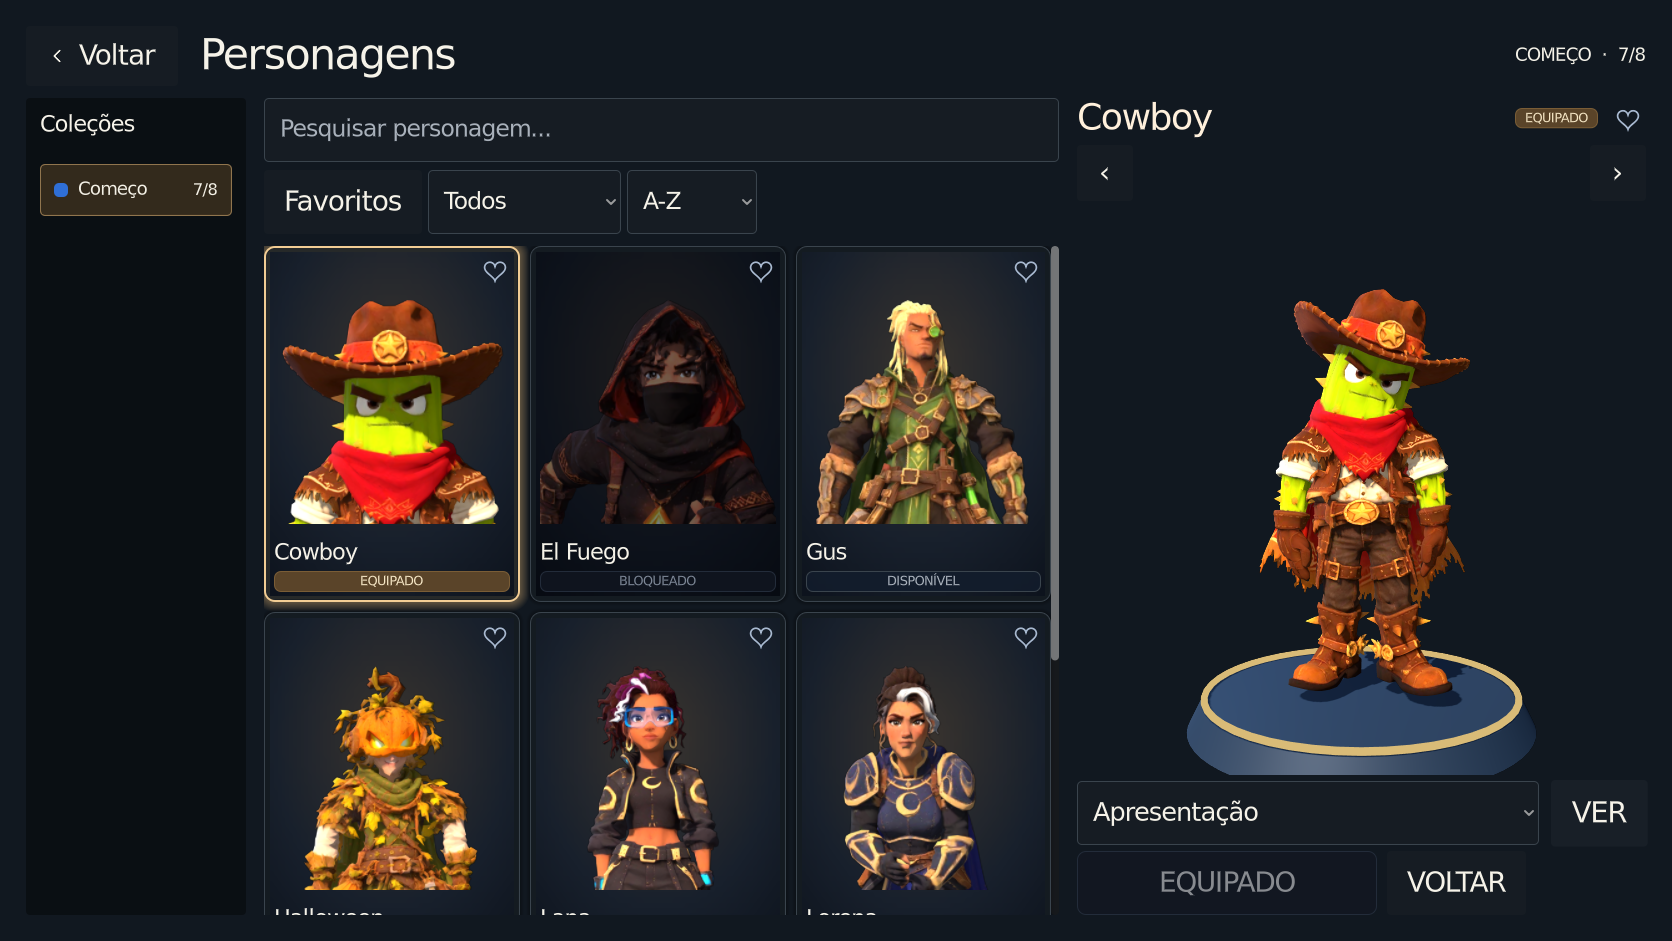
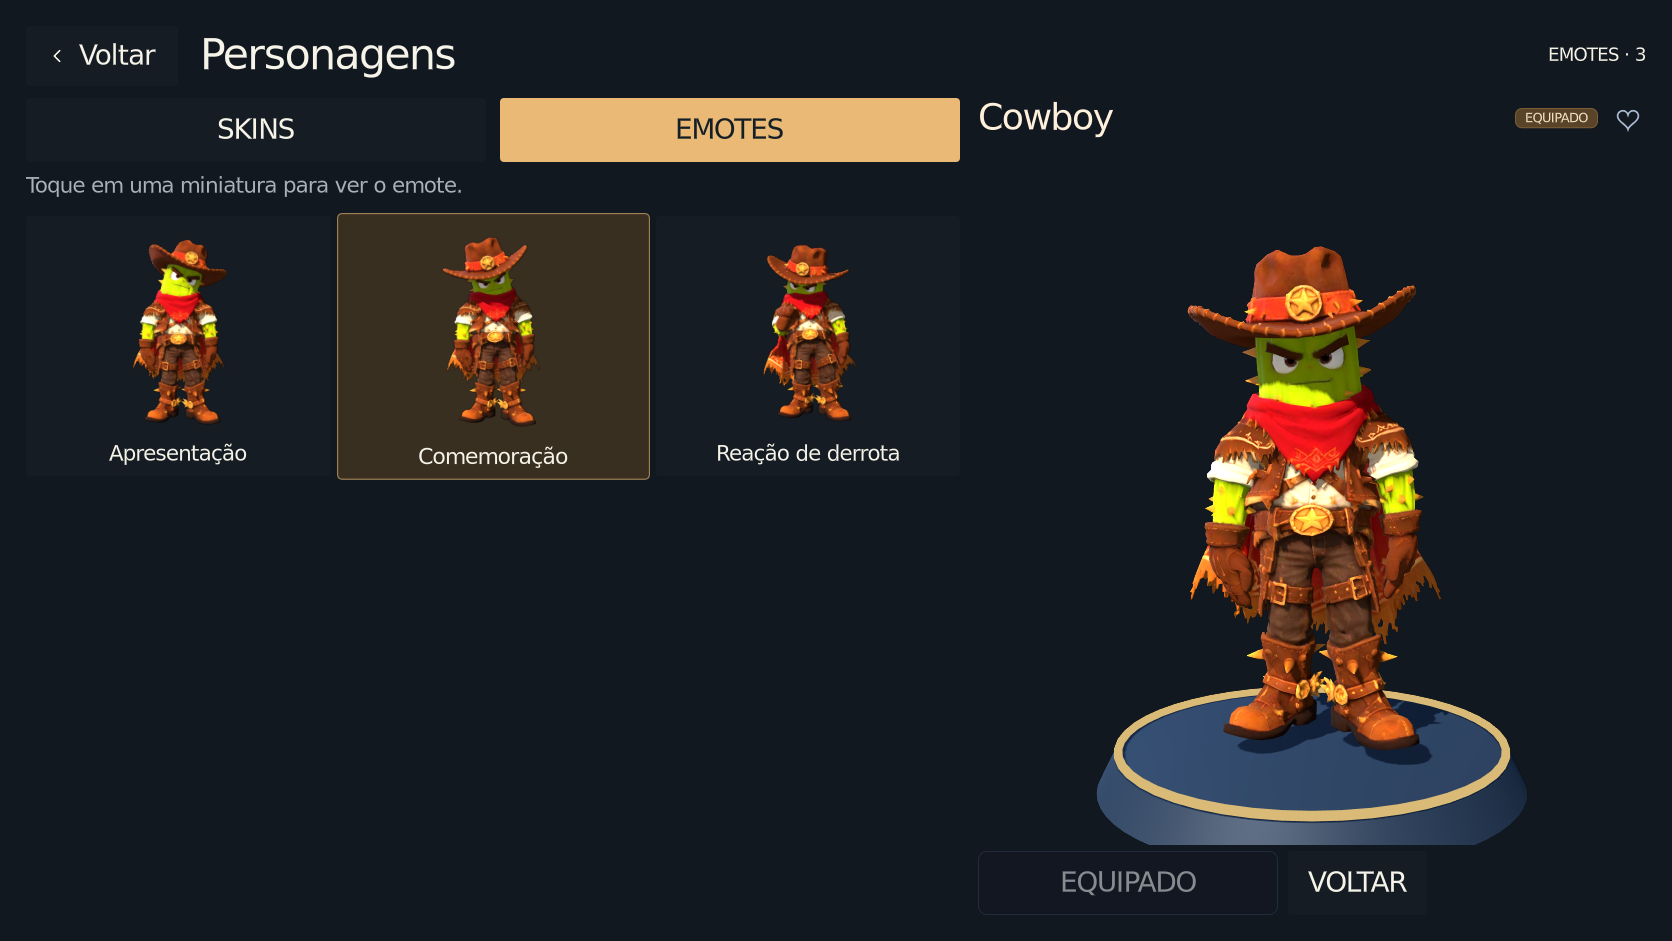
Transforma emotes em galeria visual com prévias reais do personagem

diff --git a/docs/characters/SKIN_VARIATIONS_EMOTES.md b/docs/characters/SKIN_VARIATIONS_EMOTES.md
@@ -1,32 +1,33 @@
-# Skins e emotes — desenvolvimento
+# Prévia visual de skins e emotes
 
 Branch: `work/skin-variations-emotes`.
 
-A primeira etapa acrescenta um seletor de prévia em Personagens, reutilizando os
-FBX existentes: Apresentação (`2.fbx`), Comemoração (`4.fbx`) e Reação de derrota
-(`3.fbx`). São três animações por personagem inicial. El Fuego não recebe emotes
-inventados a partir dos ataques e ações de plataforma.
+Personagens possui abas Skins e Emotes. A aba Emotes mostra três cartões com
+poses capturadas do modelo real. Tocar/clicar no cartão reproduz o movimento
+no personagem maior, à direita. Mouse, toque e foco por teclado usam botões
+nativos e o estilo existente de PlayerUI.
 
-Cada prévia toca uma vez e restaura a pose ou o loop anterior. Uma reação
-automática interrompe a prévia e cancela o retorno pendente. Repetir/trocar o
-emote e liberar o modelo também limpa esse estado. Nenhum modelo, textura ou
-animação original foi substituído; não há novos assets, cobrança ou alterações
-de autenticação/backend nesta etapa.
+Os clipes são os FBX originais: Apresentação (`2.fbx`), Comemoração (`4.fbx`) e
+Reação de derrota (`3.fbx`), nos sete personagens iniciais. El Fuego mantém o
+estado sem emotes disponíveis. Cada prévia toca uma vez e restaura a pose ou
+animação anterior. As reações automáticas continuam tendo prioridade.
 
-O catálogo atual não contém estilos de cor/roupa alternativos. Foram perguntados
-ao dono o tipo de variação (novas cores ou modelos/texturas já prontos) e o alcance
-dos emotes (lobby/sala ou também partida). Essas escolhas seguem pendentes.
-Ainda não há estilos alternativos equipáveis, seleção de emote salva na conta
-ou transmissão de emotes para os demais jogadores. A interface implementada
-nesta etapa é uma prévia na coleção, não a conclusão de todo esse fluxo.
+Um palco temporário captura três miniaturas da skin selecionada, enquadrando
+os ossos da pose. Depois é liberado. Os cartões usam texturas estáticas em cache;
+o personagem maior é o único que continua animado. Não há imagem gerada por IA:
+as miniaturas e capturas foram renderizadas pelo Godot com os assets existentes.
 
-Validação: Godot oficial 4.7.2, teste `tests/skin_emotes/preview.gd` com 26
-verificações e regressão `tests/duel_avatars/animations.gd` com 69, sem falhas.
-`tools/player_ui/check_design.py`: OK. O ambiente não possui Xvfb; a conferência
-visual usa uma exportação real do Godot Web com fixtures isoladas e rede externa
-bloqueada. Não se trata de teste em iPhone físico.
+O escopo atual é uma prévia na coleção. Estilos alternativos de roupa/cor,
+seleção salva na conta e emotes compartilhados no lobby/sala/partida continuam
+como próximas etapas, dependentes da definição dos visuais e do uso desejado.
 
-Web: aprovado em 1672×941, 844×390/DPR3 e 640×360/DPR3, com clique/toque,
-reprodução e retorno à pose sem erros. O primeiro teste em 640×360 identificou
-um excesso de largura; seletor com texto recortável e botão curto corrigiram
-o encaixe sem reduzir as fontes. Capturas em `evidence/skin-emotes`.
+Validação no Godot oficial 4.7.2: dez verificações da galeria visual, 26 do
+controle dos emotes e 69 de regressão das reações automáticas, sem falhas.
+`tools/player_ui/check_design.py`: OK. Godot Web/Chromium aprovado em desktop
+1672×941 e iPhone UA/DPR3 em 844×390 e 640×360: três miniaturas carregadas com
+altura visível, cartões dentro da tela, clique/toque, reprodução e retorno à
+pose, sem erros de script. O ajuste de altura preserva o tamanho dos cartões
+sem aplicar a regra dos retratos de skins a eles.
+
+Capturas em `evidence/skin-emotes`. São fixtures isoladas, sem acesso ao backend.
+Não houve teste em iPhone físico; o ambiente não possui Xvfb.

diff --git a/evidence/skin-emotes/README.md b/evidence/skin-emotes/README.md
@@ -1,16 +1,16 @@
-# Prévia dos emotes originais
+# Prévia visual dos emotes
 
-Godot Web 4.7.2 real, assets FBX originais, fixture isolada sem conexão ao backend.
-A fixture libera somente os sete personagens iniciais para testar os controles.
+Capturas reais do Godot Web 4.7.2, com FBX originais e fixture isolada.
+O jogador toca no cartão para reproduzir a animação no personagem à direita.
+As três miniaturas mostram poses capturadas do mesmo modelo.
 
-- `640x360_emotes.png`: Chromium, user agent de iPhone e DPR 3.
-- `844x390_emotes.png`: Chromium, user agent de iPhone e DPR 3.
+- `640x360_emotes.png` e `844x390_emotes.png`: Chromium, iPhone UA, DPR 3.
 - `1672x941_emotes.png`: Chromium desktop.
-- `results.json`: toque/clique inicia a animação, controles cabem no viewport e
-  o término restaura a pose; nenhum erro de script.
-- `native-test.log`: 26 verificações no motor, incluindo restauração dos ossos.
+- `results.json`: miniaturas visíveis, toque/clique, animação e retorno à pose.
+- `gallery-test.log`: dez verificações da galeria visual.
+- `native-test.log`: 26 verificações do controle das animações.
 - `avatar-regression.log`: 69 verificações das reações automáticas existentes.
 
-Não houve validação em aparelho físico. Esta etapa é a prévia na tela
-Personagens. Estilos alternativos e uso compartilhado de emotes continuam
-pendentes de definição em `docs/characters/SKIN_VARIATIONS_EMOTES.md`.
+Os retratos distribuídos são reutilizados; a fixture não executa a geração
+antiga de retratos, para isolar o teste das novas miniaturas de emotes.
+Não houve teste em aparelho físico. Esta é uma prévia na branch separada.
